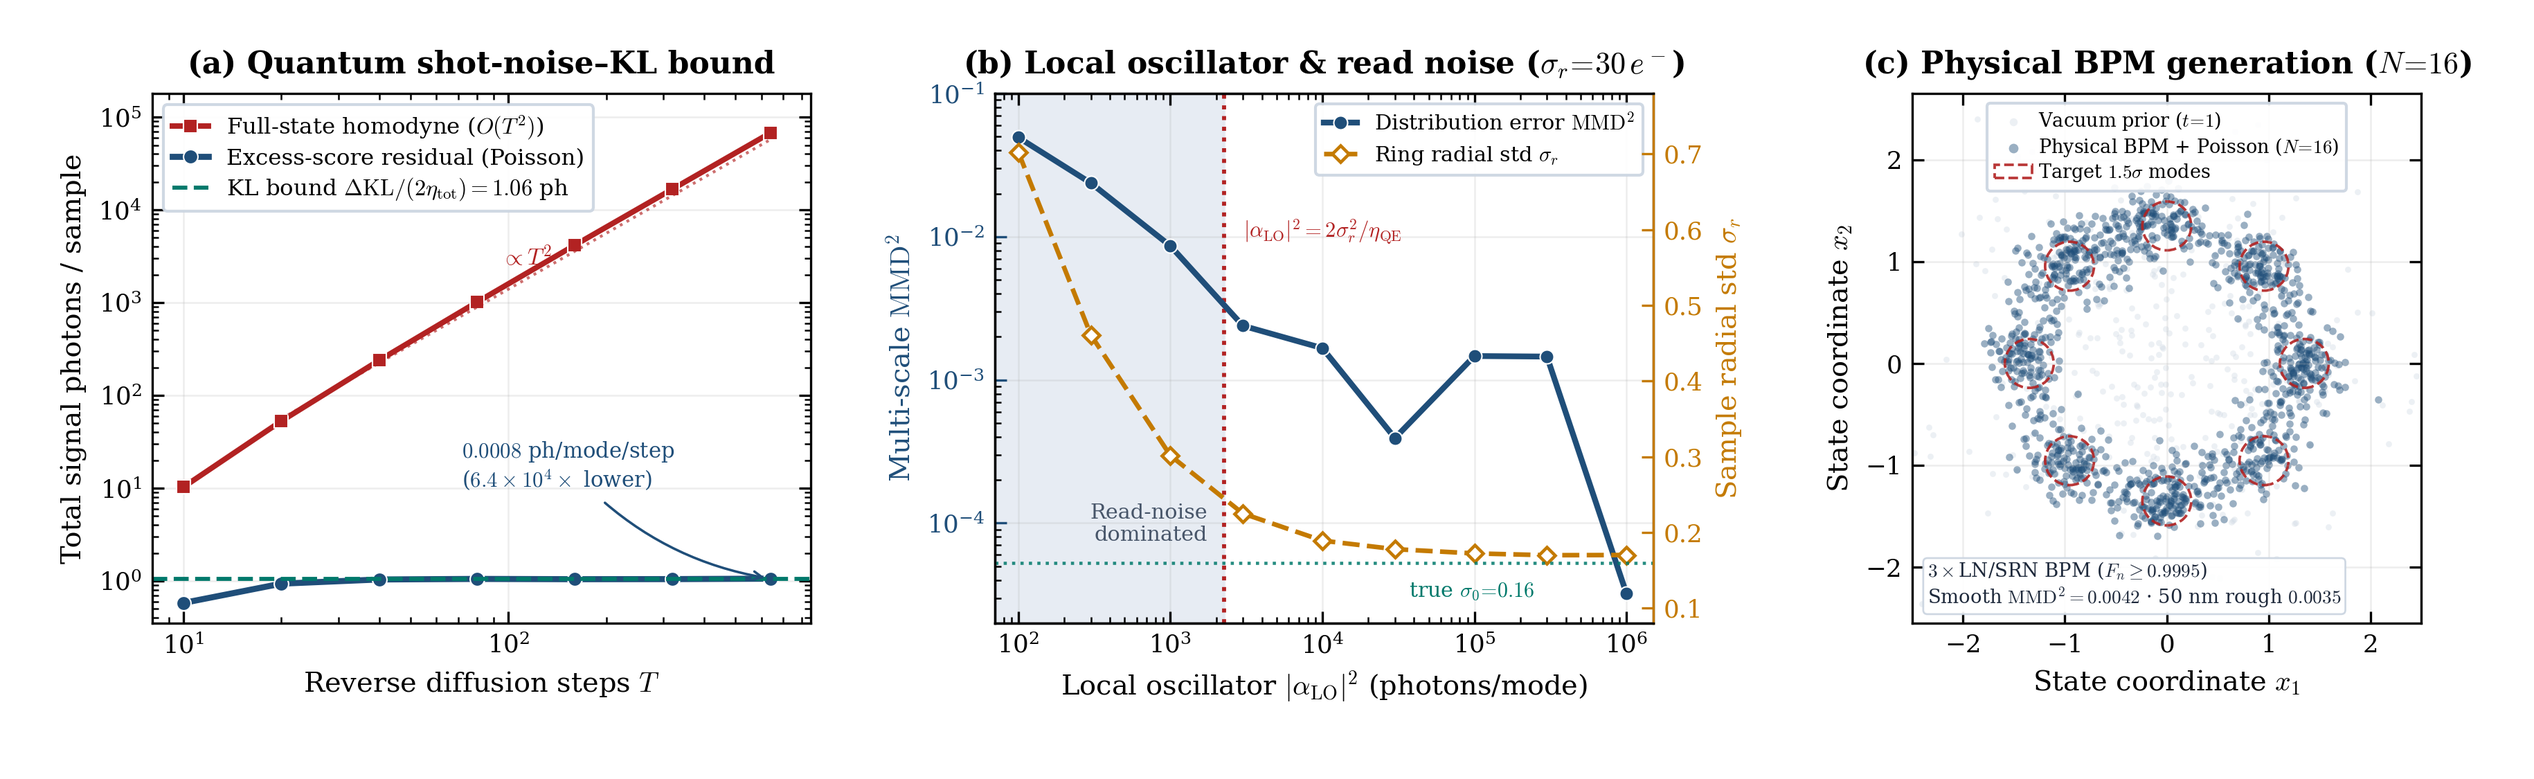
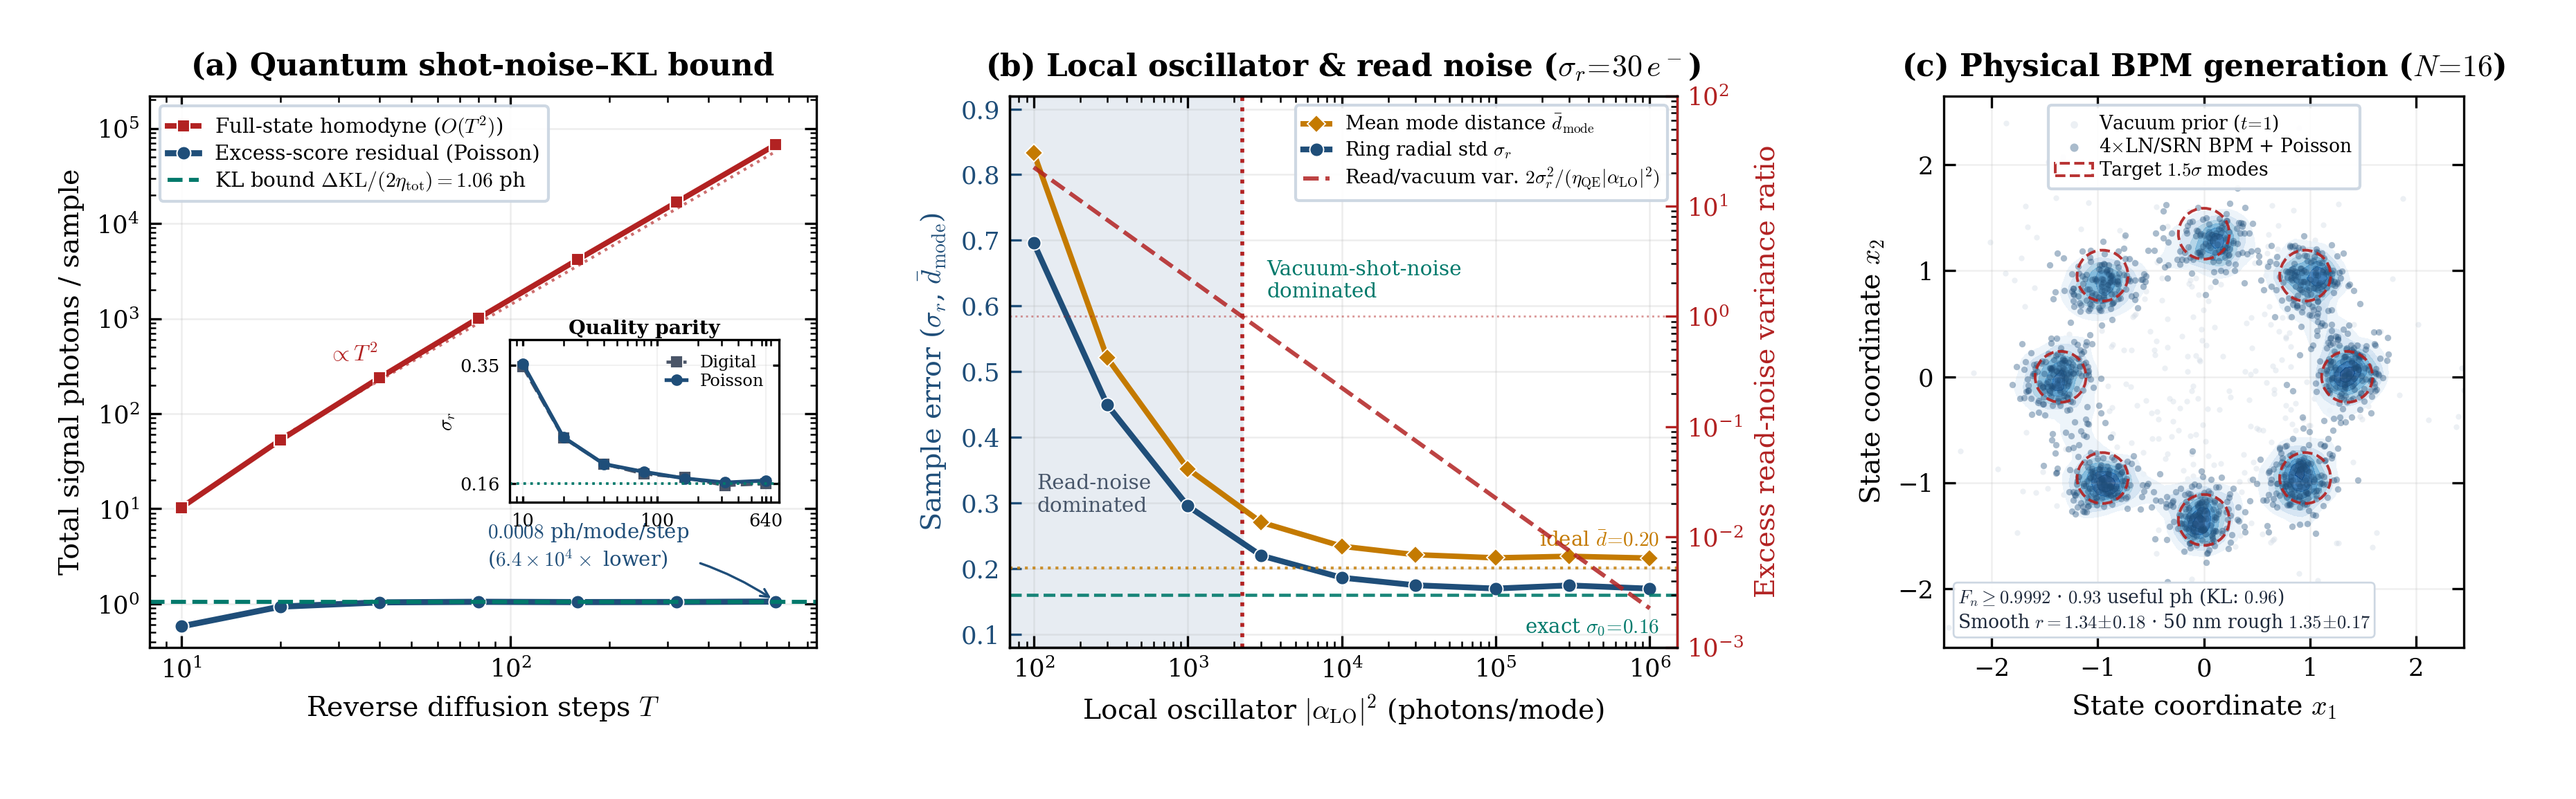
Improve Experiment 1 (4-layer N=16 BPM ring, 5-seed LO sweep, clearer fig_diffusion_kl)

diff --git a/experiments/diffusion_kl_theorem.py b/experiments/diffusion_kl_theorem.py
@@ -144,62 +144,79 @@ def main():
 
     # ------------------------------------------------------------------
     # Part 1B: Finite LO power & read noise phase diagram (sigma_read = 30 e-)
+    # Average over 5 independent seeds (2000 samples each) for low-variance MMD^2!
     # ------------------------------------------------------------------
     lo_grid = [1e2, 3e2, 1e3, 3e3, 1e4, 3e4, 1e5, 3e5, 1e6]
     lo_sweep = []
     for n_lo in lo_grid:
         det_lo = HomodyneDetector(eta_qe=0.8, eta_chip=0.90, lo_photons_per_mode=n_lo, read_noise_e=30.0)
-        s_lo, st_lo = sample_photonic_diffusion(
-            exact_score, sched, det_lo, shape=(2000, 2), n_steps=100,
-            rng=np.random.default_rng(500), mode="homodyne_residual",
+        mmds, rstds, rmeans, mdists = [], [], [], []
+        ex_read_vals, ex_lo_vals = [], []
+        for s_idx in range(5):
+            s_lo, st_lo = sample_photonic_diffusion(
+                exact_score, sched, det_lo, shape=(2500, 2), n_steps=120,
+                rng=np.random.default_rng(500 + 17 * s_idx), mode="homodyne_residual",
+            )
+            m_i = ring_metrics(s_lo, ref_samples, gmm)
+            mmds.append(m_i["mmd2"])
+            rstds.append(m_i["r_std"])
+            rmeans.append(m_i["r_mean"])
+            mdists.append(m_i["mean_mode_dist"])
+            ex_read_vals.append(st_lo["mean_excess_read_var_frac"])
+            ex_lo_vals.append(st_lo["max_excess_lo_var_frac"])
+        m_lo = dict(
+            r_mean=float(np.mean(rmeans)),
+            r_std=float(np.mean(rstds)),
+            mean_mode_dist=float(np.mean(mdists)),
+            mmd2=float(np.mean(mmds)),
+            mmd2_std=float(np.std(mmds) / math.sqrt(len(mmds))),
         )
-        m_lo = ring_metrics(s_lo, ref_samples, gmm)
         lo_sweep.append(dict(
             lo_photons_per_mode=n_lo,
-            excess_read_var_frac=st_lo["mean_excess_read_var_frac"],
-            max_excess_lo_var_frac=st_lo["max_excess_lo_var_frac"],
+            excess_read_var_frac=float(np.mean(ex_read_vals)),
+            max_excess_lo_var_frac=float(np.mean(ex_lo_vals)),
             metrics=m_lo,
         ))
-        print(f"  LO={n_lo:8.0f} ph/mode (read_noise=30e): excess_read={st_lo['mean_excess_read_var_frac']:.4f}, "
+        print(f"  LO={n_lo:8.0f} ph/mode (read_noise=30e): excess_read={np.mean(ex_read_vals):.4f}, "
               f"r_std={m_lo['r_std']:.3f}, MMD2={m_lo['mmd2']:.5f}", flush=True)
 
     # ------------------------------------------------------------------
-    # Part 1C: Train N=16 UnitaryScoreNet on 2D ring & compile to physical BPM
+    # Part 1C: Train 4-layer N=16 UnitaryScoreNet on 2D ring & compile to physical BPM
     # ------------------------------------------------------------------
-    print("\nTraining 3-layer N=16 UnitaryScoreNet on 2D 8-mode ring...", flush=True)
+    print("\nTraining 4-layer N=16 UnitaryScoreNet on 2D 8-mode ring...", flush=True)
     cfg = PhotonicNetConfig(
-        data_dim=2, n_modes=16, n_layers=3, time_dim=16,
+        data_dim=2, n_modes=16, n_layers=4, time_dim=16,
         nonlinearity="silu", eta_chip=0.99, ancilla_reg=0.0, seed=11,
     )
     net = UnitaryScoreNet(cfg)
-    opt = ComplexAdam(net, lr=5e-3)
+    opt = ComplexAdam(net, lr=6e-3)
     ema = {k: v.copy() for k, v in net.param_items()}
     rng_tr = np.random.default_rng(7)
-    n_iters = 10000
+    n_iters = 22000
     for it in range(1, n_iters + 1):
-        x0 = gmm.sample(256, rng_tr)
-        u = rng_tr.uniform(0.0, 1.0, size=(256,))
-        t_b = sched.eps + (1.0 - sched.eps) * (u ** 1.8)
+        x0 = gmm.sample(512, rng_tr)
+        u = rng_tr.uniform(0.0, 1.0, size=(512,))
+        t_b = sched.eps + (1.0 - sched.eps) * (u ** 2.3)
         a_b, s_b = sched.alpha_sigma(t_b)
         eps_b = rng_tr.normal(size=x0.shape)
         xt = a_b[:, None] * x0 + s_b[:, None] * eps_b
         tgt = s_b[:, None] * x0 - a_b[:, None] * eps_b
-        lr_now = 5e-3 * 0.5 * (1.0 + math.cos(math.pi * it / n_iters))
+        lr_now = 2e-4 + (6e-3 - 2e-4) * 0.5 * (1.0 + math.cos(math.pi * it / n_iters))
         loss, grads = net.loss_and_grads(xt, t_b, tgt)
-        opt.step(grads, lr=max(lr_now, 2e-4))
+        opt.step(grads, lr=lr_now)
         for k, v in net.param_items():
-            ema[k] = 0.996 * ema[k] + 0.004 * v if it > 500 else v.copy()
-        if it % 2500 == 0:
+            ema[k] = 0.997 * ema[k] + 0.003 * v if it > 500 else v.copy()
+        if it % 5500 == 0:
             print(f"  it {it:5d}/{n_iters}: loss={loss:.4f}, out_gain={net.out_gain[0]:.3f}", flush=True)
     for k, v in net.param_items():
         v[...] = ema[k]
 
-    # Compile all 3 N=16 unitaries into physical shallow-etched MgO:LN/SRN BPM waveguides
-    print("\nCompiling 3 x N=16 unitaries into physical MgO:LN/SRN BPM waveguides...", flush=True)
+    # Compile all 4 N=16 unitaries into physical shallow-etched MgO:LN/SRN BPM waveguides
+    print("\nCompiling 4 x N=16 unitaries into physical MgO:LN/SRN BPM waveguides...", flush=True)
     Us = net.get_unitaries()
     compiled = []
     for l, U_l in enumerate(Us):
-        c_res = compile_unitary_to_bpm(U_l, na=0.3, length_um=1250.0, dn_max=5e-3, res_um=1.0, iters=150, seed=l)
+        c_res = compile_unitary_to_bpm(U_l, na=0.3, length_um=1250.0, dn_max=5e-3, res_um=1.0, iters=120, seed=l)
         compiled.append(c_res)
         print(f"  Layer {l}: F={c_res['F']:.4f}, F_n={c_res['Fn']:.5f}, eta_actual={c_res['eta_actual']:.4f}", flush=True)
 
@@ -237,23 +254,23 @@ def main():
         return fn
 
     samp_dig, _ = sample_photonic_diffusion(
-        make_fn(None), sched, det_bpm, shape=(2000, 2), n_steps=100,
+        make_fn(None), sched, det_bpm, shape=(2000, 2), n_steps=160,
         rng=np.random.default_rng(801), mode="digital",
     )
     samp_bpm, st_bpm = sample_photonic_diffusion(
-        make_fn(T_bpm), sched, det_bpm, shape=(2000, 2), n_steps=100,
+        make_fn(T_bpm), sched, det_bpm, shape=(2000, 2), n_steps=160,
         rng=np.random.default_rng(802), mode="homodyne_residual",
-        record_steps=[0, 25, 50, 75, 100],
+        record_steps=[0, 40, 80, 120, 160],
     )
 
-    # Uncalibrated sidewall roughness sigma = 50 nm on all 3 compiled chips
+    # Uncalibrated sidewall roughness sigma = 50 nm on all 4 compiled chips
     T_rough50 = [
         evaluate_compiled_bpm(c["theta"], c["cfg"], c["D_phase"], c["global_phase"],
                               rough_sigma_nm=50.0, rough_lc_um=0.2, rough_seed=10 + l)[0]
         for l, c in enumerate(compiled)
     ]
     samp_r50, st_r50 = sample_photonic_diffusion(
-        make_fn(T_rough50), sched, det_bpm, shape=(2000, 2), n_steps=100,
+        make_fn(T_rough50), sched, det_bpm, shape=(2000, 2), n_steps=160,
         rng=np.random.default_rng(803), mode="homodyne_residual",
     )
 
@@ -299,10 +316,10 @@ def main():
         samp_bpm=samp_bpm,
         samp_r50=samp_r50,
         traj_0=st_bpm["traj"][0],
-        traj_25=st_bpm["traj"][25],
-        traj_50=st_bpm["traj"][50],
-        traj_75=st_bpm["traj"][75],
-        traj_100=st_bpm["traj"][100],
+        traj_40=st_bpm["traj"][40],
+        traj_80=st_bpm["traj"][80],
+        traj_120=st_bpm["traj"][120],
+        traj_160=st_bpm["traj"][160],
     )
     print(f"Saved Experiment 1 to {OUT_DIR} in {time.time() - t0:.1f}s")
 
